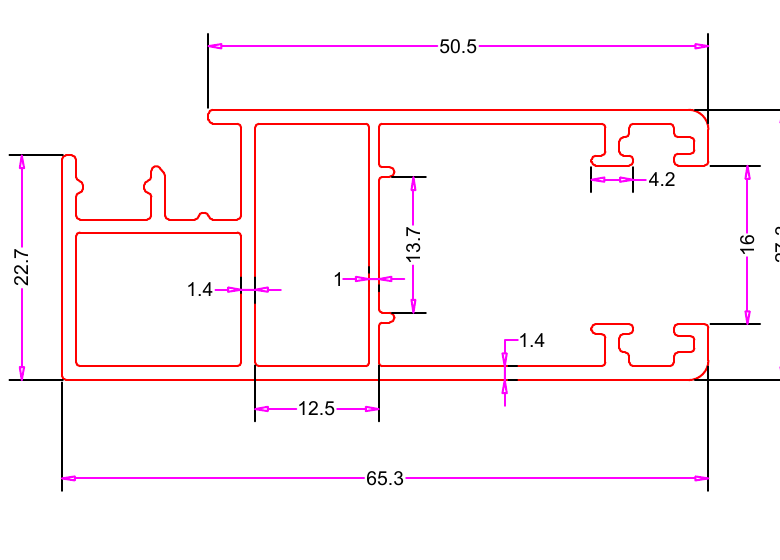
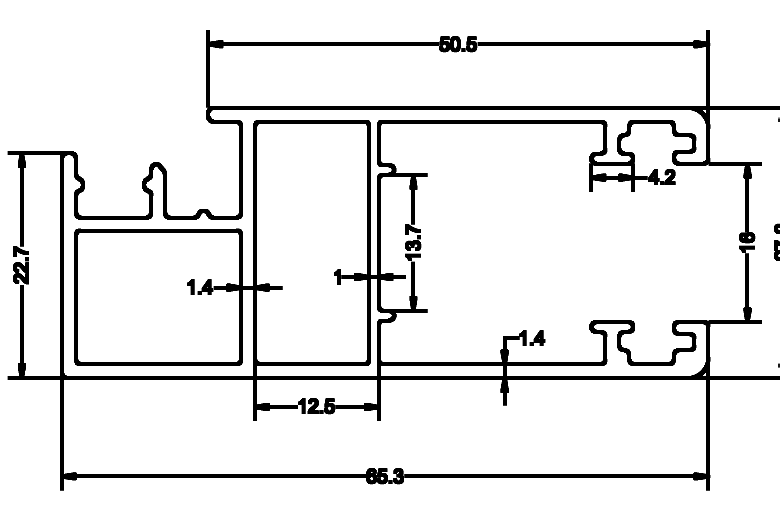
Section drawings in black, trimmed to fill their box
Every catalogue section drawing (27 images) is redrawn in black on white:
the same lines, dimensions and text, only the colour changed — the red
outlines, magenta dimension lines and green fills read faintly on a
phone. Cyan and blue rules left over from cutting them off the catalogue
page are dropped, the empty page around each is trimmed, and lines are
thickened a pixel so they survive being shown small. Sections drawn in
code (the 63 and 50 center rails) use the same black on white. The
material list shows the drawings a little larger.

Claude-Session: https://claude.ai/code/session_011PUPxMAAzzLueH72U7EBRP

Changed region(s): [[0.0, 0.1843, 1.0, 0.7985], [0.0615, 0.8292, 0.9231, 0.952], [0.2462, 0.0614, 0.9231, 0.1228]]

diff --git a/app/page.tsx b/app/page.tsx
@@ -837,7 +837,7 @@ function JobScreen({
               <Choice key={v} wide selected={o.sys === v} onClick={() => choose({ sys: v as WinSys })}
                 title={label} sub={SYSTEM_INFO[v as WinSys].sub}
                 // eslint-disable-next-line @next/next/no-img-element
-                picture={<img src={SYSTEM_INFO[v as WinSys].img} alt="" style={{ maxHeight: 64, maxWidth: 96, objectFit: "contain" }} />} />
+                picture={<img src={SYSTEM_INFO[v as WinSys].img} alt="" style={{ maxHeight: 64, maxWidth: 96, objectFit: "contain", mixBlendMode: "multiply" }} />} />
             ))}
           </div>
         )}
@@ -1615,7 +1615,7 @@ function MaterialPanel({ list, shop, items, jobName }: {
       <div className="card overflow-hidden">
         <div className="flex items-center gap-3 px-3 py-2 text-[11px] font-semibold"
           style={{ background: "var(--surface-2)", color: "var(--ink-3)" }}>
-          <span className="shrink-0" style={{ width: 84 }}>Section</span>
+          <span className="shrink-0" style={{ width: 100 }}>Section</span>
           <span className="min-w-0 flex-1" />
           <span className="w-14 shrink-0 text-right">Pipes</span>
         </div>
@@ -1624,8 +1624,8 @@ function MaterialPanel({ list, shop, items, jobName }: {
           const code = sectionCode(s.sectionId, brand);
           return (
             <div key={s.sectionId} className="flex items-center gap-3 px-3 py-2.5" style={{ borderTop: "1px solid var(--line)" }}>
-              <span className="shrink-0" style={{ width: 84 }}>
-                <SectionProfile sectionId={s.sectionId} w={84} h={56} />
+              <span className="shrink-0" style={{ width: 100 }}>
+                <SectionProfile sectionId={s.sectionId} w={92} h={62} />
               </span>
               <div className="min-w-0 flex-1">
                 <div className="text-sm font-semibold leading-tight">

diff --git a/components/section-profiles.tsx b/components/section-profiles.tsx
@@ -68,8 +68,9 @@ export function specFor(sectionId: string): Spec {
 
 /* ————————————————— cross-section faces ————————————————— */
 // Colours are theme tokens so the profile reads on light + dark cards.
-const METAL = "var(--steel)";
-const EDGE = "var(--ink-2)";
+// Black line on white, the same as the catalogue drawings beside them.
+const METAL = "#ffffff";
+const EDGE = "#000000";
 const BORE = "var(--surface)";
 
 /** Draw the detailed cross-section in a local [0,0]-[W,H] px box. */
@@ -324,7 +325,7 @@ export function SectionDrawing({ sectionId }: { sectionId: string }) {
   const long = 96;
   const dw = wmm >= hmm ? long : long * (wmm / hmm);
   const dh = wmm >= hmm ? long * (hmm / wmm) : long;
-  const A = "var(--accent)";
+  const A = "#000000";
   const dim = { stroke: A, strokeWidth: 1 };
   const M = 30;
   // Same named card as the catalogue crops — a bare outline left the workshop
